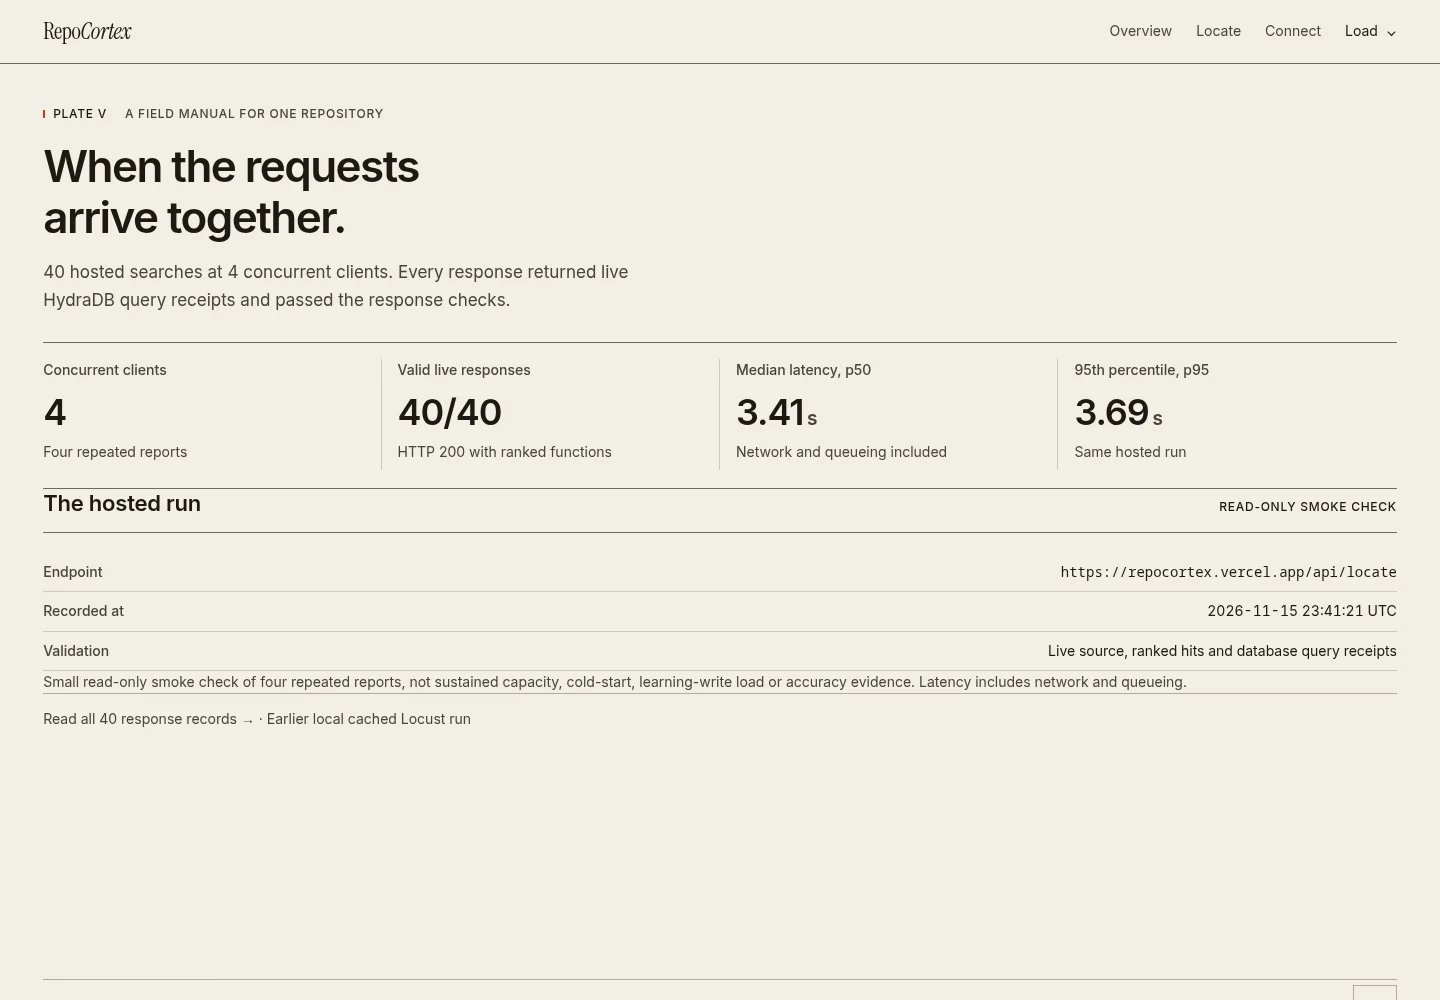
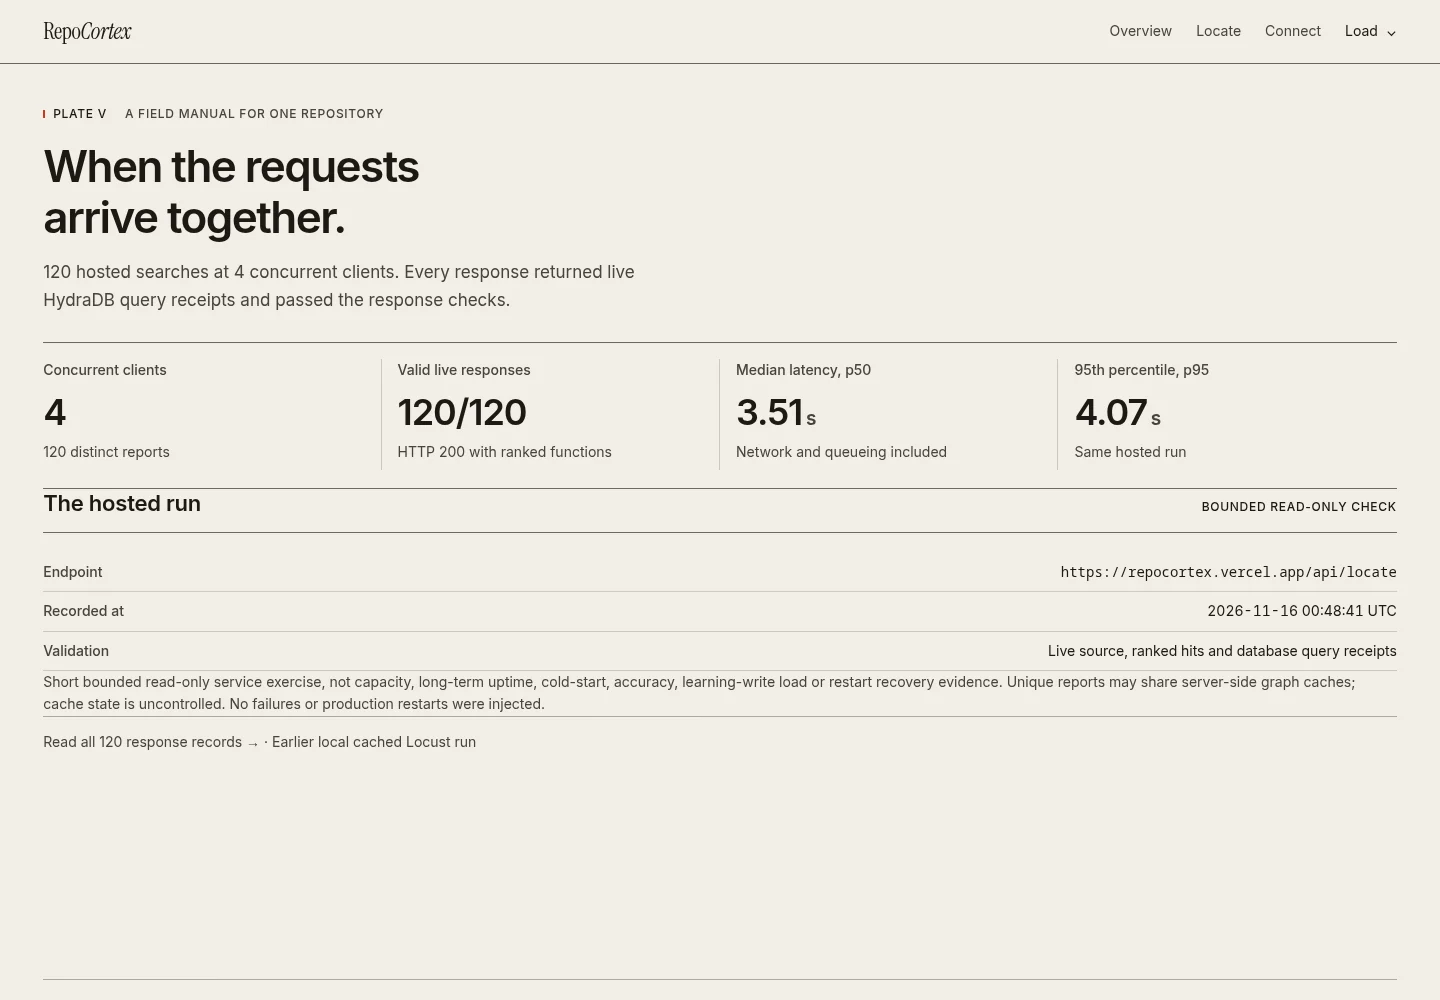
feat: show transfer and live service evidence

diff --git a/web/app/app/load/page.tsx b/web/app/app/load/page.tsx
@@ -1,6 +1,6 @@
 import type { Metadata } from "next";
 import { PlateHeading } from "@/components/dashboard/plate-heading";
-import load from "@/public/data/hosted-search.json";
+import load from "@/public/data/service-reliability.json";
 
 export const metadata: Metadata = { title: "Load" };
 
@@ -9,13 +9,13 @@ export default function Load() {
     <div className="manual-page supporting-screen">
       <PlateHeading chapter="load" title={<>When the requests<br /><i>arrive together.</i></>}><p>{load.requests} hosted searches at {load.concurrency} concurrent clients. Every response returned live HydraDB query receipts and passed the response checks.</p></PlateHeading>
       <dl className="journal-metrics load-metrics">
-        <div><dt>Concurrent clients</dt><dd>{load.concurrency}<small>Four repeated reports</small></dd></div>
+        <div><dt>Concurrent clients</dt><dd>{load.concurrency}<small>120 distinct reports</small></dd></div>
         <div><dt>Valid live responses</dt><dd>{load.valid_live_responses}/{load.requests}<small>HTTP 200 with ranked functions</small></dd></div>
         <div><dt>Median latency, p50</dt><dd>{load.p50_seconds.toFixed(2)}<em> s</em><small>Network and queueing included</small></dd></div>
         <div><dt>95th percentile, p95</dt><dd>{load.p95_seconds.toFixed(2)}<em> s</em><small>Same hosted run</small></dd></div>
       </dl>
       <section aria-labelledby="load-record-title">
-        <div className="section-rule"><h2 id="load-record-title">The hosted run</h2><span className="sc">Read-only smoke check</span></div>
+        <div className="section-rule"><h2 id="load-record-title">The hosted run</h2><span className="sc">Bounded read-only check</span></div>
         <table className="manual-table run-record"><caption className="sr-only">Hosted search check details</caption><tbody>
           <tr><th scope="row">Endpoint</th><td><code>{load.endpoint}</code></td></tr>
           <tr><th scope="row">Recorded at</th><td><time dateTime={load.checked_at}>{new Date(load.checked_at).toISOString().replace("T", " ").replace(/\.\d+Z$/, " UTC")}</time></td></tr>
@@ -23,7 +23,7 @@ export default function Load() {
         </tbody></table>
         <p className="figure-note">{load.limitations}</p>
       </section>
-      <p className="manual-endnote"><a href="https://github.com/codebanditssss/repocortex/blob/main/results/hosted_search_check_40.json" target="_blank" rel="noreferrer">Read all 40 response records →</a> · <a href="https://github.com/codebanditssss/repocortex/blob/main/results/loadtest.json" target="_blank" rel="noreferrer">Earlier local cached Locust run</a></p>
+      <p className="manual-endnote"><a href="https://github.com/codebanditssss/repocortex/blob/main/results/service_reliability_120.json" target="_blank" rel="noreferrer">Read all 120 response records →</a> · <a href="https://github.com/codebanditssss/repocortex/blob/main/results/loadtest.json" target="_blank" rel="noreferrer">Earlier local cached Locust run</a></p>
     </div>
   );
 }

diff --git a/web/app/app/overview/page.tsx b/web/app/app/overview/page.tsx
@@ -40,6 +40,7 @@ export default function Overview() {
           </tbody></table>
         </section></details>
         <EvaluationNote />
+        <details className="dashboard-disclosure"><summary>Does learning work beyond Django?</summary><p>On HTTPX, with unchanged ranking settings, 51 earlier reports trained the graph and 33 were held out. The frozen graph found every changed function in its top ten for 14 reports; learning found 15. The no-graph blend found 13.</p><p>The gain is one report, and its paired 95% interval includes zero. The earlier seven-report Flask holdout showed no learning gain. These retrospective offline checks do not establish reliable generalization.</p><p><a href="https://github.com/codebanditssss/repocortex/blob/main/results/transfer_httpx.md" target="_blank" rel="noreferrer">Read the HTTPX protocol and results →</a></p></details>
         <details className="baseline-summary">
           <summary>All baselines, including dense + BM25 without graph</summary>
           <table className="manual-table"><caption>At the end of the pass / held-out accuracy</caption><thead><tr><th scope="col">Method</th><th scope="col">File Acc@1</th><th scope="col">Function Acc@10</th></tr></thead><tbody>
